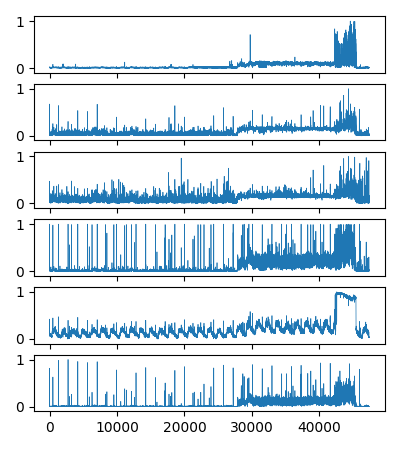
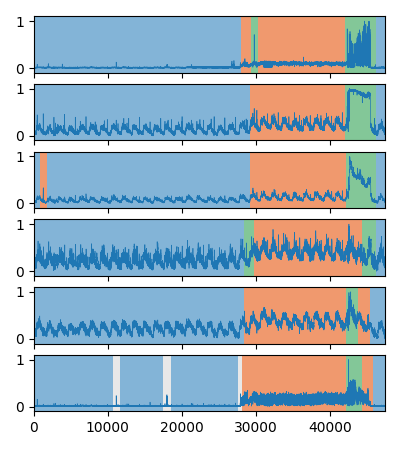
adjust vmax

diff --git a/evaluation/decompose.py b/evaluation/decompose.py
@@ -58,22 +58,50 @@ def find_best_match(X, Y, score_matrix):
     # print(score_matrix)
     matched_pair = []
     height, width = score_matrix.shape
-    for i in range(height):
+    for i in range(min(height, width)):
         row, col = np.unravel_index(np.argmax(score_matrix), score_matrix.shape)
+        matched_pair.append((row, col))
+        # print(score_matrix, row, col)
         score_matrix[row,:] = 0
         score_matrix[:,col] = 0
         if np.sum(score_matrix)==0:
             break
-        print(score_matrix, row, col)
-        matched_pair.append((row, col))
-    new_X = X.copy()+10
+    # print(set(X), set(Y))
+    # print(compact(X), compact(Y))
+    # print(matched_pair)
+    new_X = X.copy()
     new_Y = Y.copy()+10
-    color = 0
+    # color = 0
     for i,j in matched_pair:
-        new_X[np.argwhere(new_X==i)]=color
-        new_Y[np.argwhere(new_Y==j)]=color
-        color+=1
-    return new_X, new_Y
+        # new_X[np.argwhere(X==i)]=color
+        new_Y[np.argwhere(Y==j)]=i
+        # color+=1
+    new_Y[new_Y>=10]=-1
+    # print(set(new_X), set(new_Y))
+    # print(compact(new_X), compact(new_Y))
+    # print('========================')
+    return X, new_Y
+
+# def find_best_match(X, Y, score_matrix):
+#     # print(score_matrix)
+#     matched_pair = []
+#     height, width = score_matrix.shape
+#     for i in range(height):
+#         row, col = np.unravel_index(np.argmax(score_matrix), score_matrix.shape)
+#         score_matrix[row,:] = 0
+#         score_matrix[:,col] = 0
+#         if np.sum(score_matrix)==0:
+#             break
+#         print(score_matrix, row, col)
+#         matched_pair.append((row, col))
+#     new_X = X.copy()+10
+#     new_Y = Y.copy()+10
+#     color = 0
+#     for i,j in matched_pair:
+#         new_X[np.argwhere(new_X==i)]=color
+#         new_Y[np.argwhere(new_Y==j)]=color
+#         color+=1
+#     return new_X, new_Y
 
 # # Find best match for all states.
 # def find_best_match(X, Y, score_matrix):
@@ -113,8 +141,8 @@ X, Y = find_best_match(state_seq_list[0], state_seq_list[2], matrix)
 
 import matplotlib.pyplot as plt
 fig, ax = plt.subplots(nrows=2)
-ax[0].imshow(X.reshape(-1,1).T, aspect='auto', cmap='tab20c', interpolation='nearest',)
-ax[1].imshow(Y.reshape(-1,1).T, aspect='auto', cmap='tab20c', interpolation='nearest',)
+ax[0].imshow(X.reshape(-1,1).T, aspect='auto', cmap='tab20c', interpolation='nearest',vmax=8, vmin=0)
+ax[1].imshow(Y.reshape(-1,1).T, aspect='auto', cmap='tab20c', interpolation='nearest',vmax=8, vmin=0)
 ax[0].set_ylim([-0.5,0.5])
 ax[1].set_ylim([-0.5,0.5])
 plt.savefig('partial.png')

diff --git a/case_studies/inspect_result.py b/case_studies/inspect_result.py
@@ -63,13 +63,13 @@ def find_best_match(X, Y, score_matrix):
     print(compact(X), compact(Y))
     print(matched_pair)
     new_X = X.copy()
-    new_Y = Y.copy()+10
+    new_Y = Y.copy()+4
     # color = 0
     for i,j in matched_pair:
         # new_X[np.argwhere(X==i)]=color
         new_Y[np.argwhere(Y==j)]=i
         # color+=1
-    new_Y[new_Y>=10]=-1
+    # new_Y[new_Y>=10]=-1
     # print(set(new_X), set(new_Y))
     print(compact(new_X), compact(new_Y))
     print('========================')
@@ -102,7 +102,7 @@ def find_top_k(id, k):
         state_seq = state_seq.reshape(1,-1)
         state_seq = np.concatenate([state_seq, state_seq])
         # ax[i].plot(exclude_outlier(data_), color= '#348ABC')
-        ax[i].imshow(state_seq, aspect='auto', cmap='tab20c', interpolation='nearest', alpha=0.5, origin='lower', vmax=5, vmin=0)
+        ax[i].imshow(state_seq, aspect='auto', cmap='tab20c', interpolation='nearest', alpha=0.6, origin='lower', vmax=5, vmin=0)
         ax[i].plot(data_, lw=0.5)
         ax[i].set_ylim([-0.1,1.1])
     plt.tight_layout()
